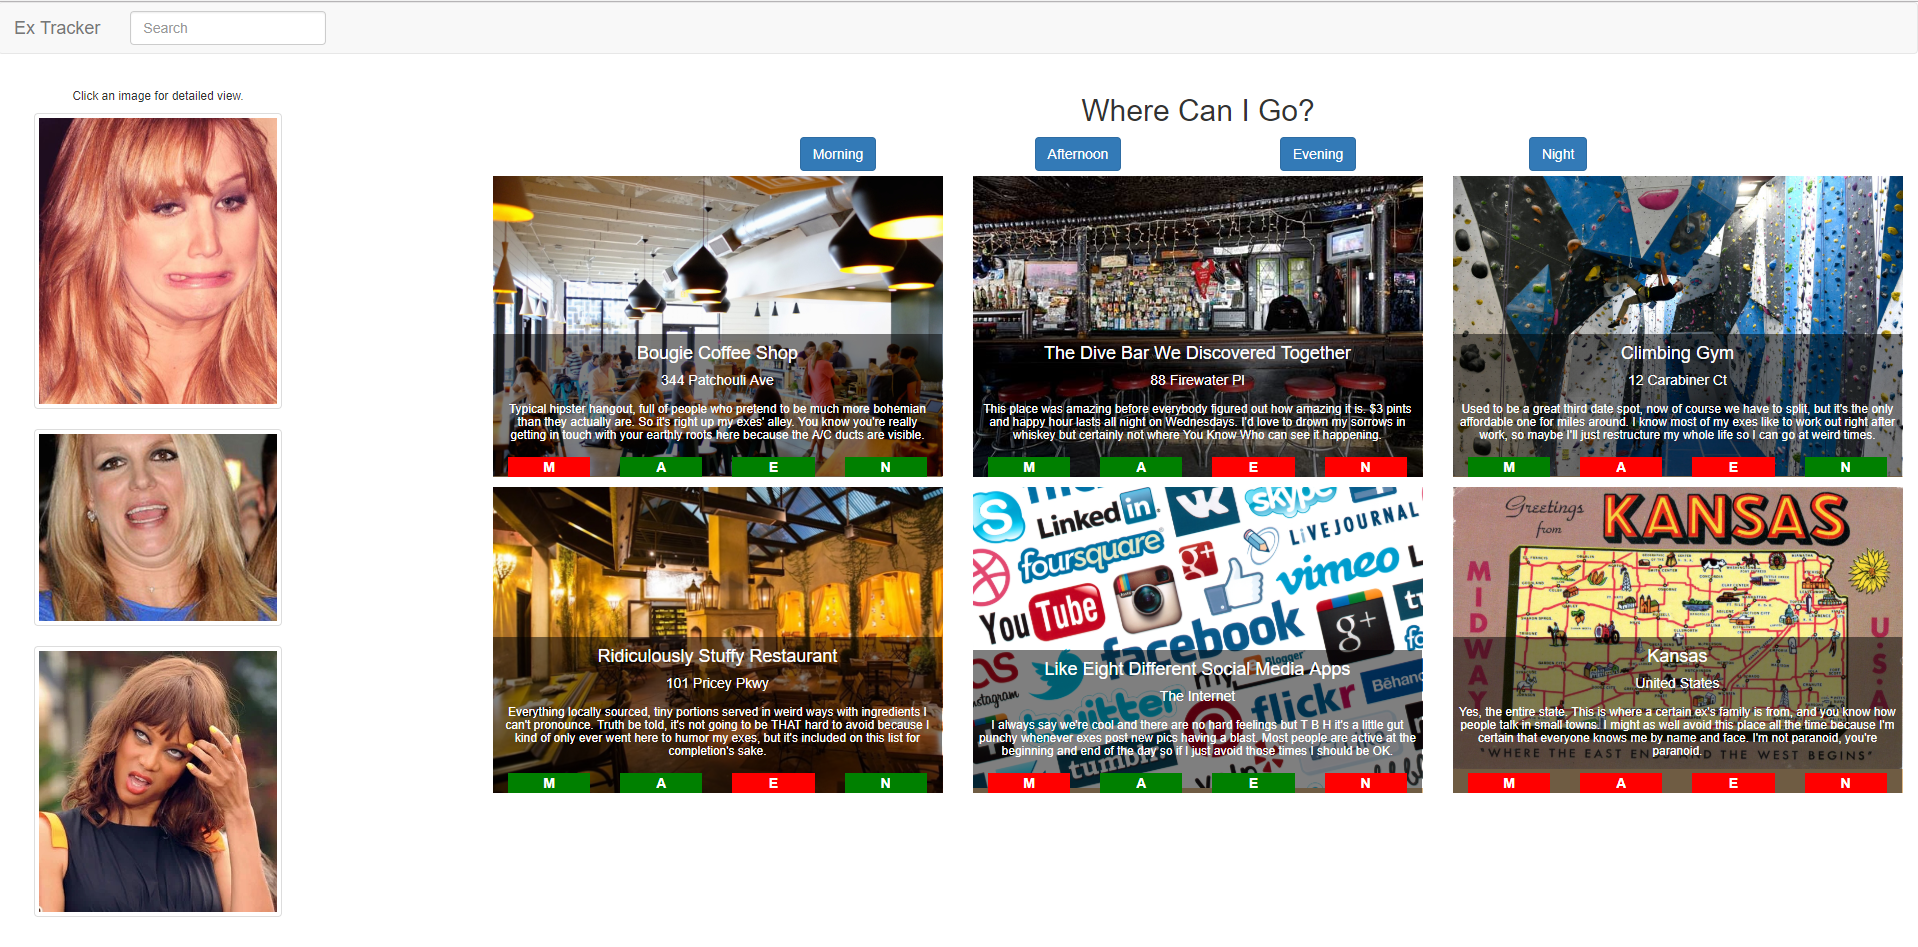
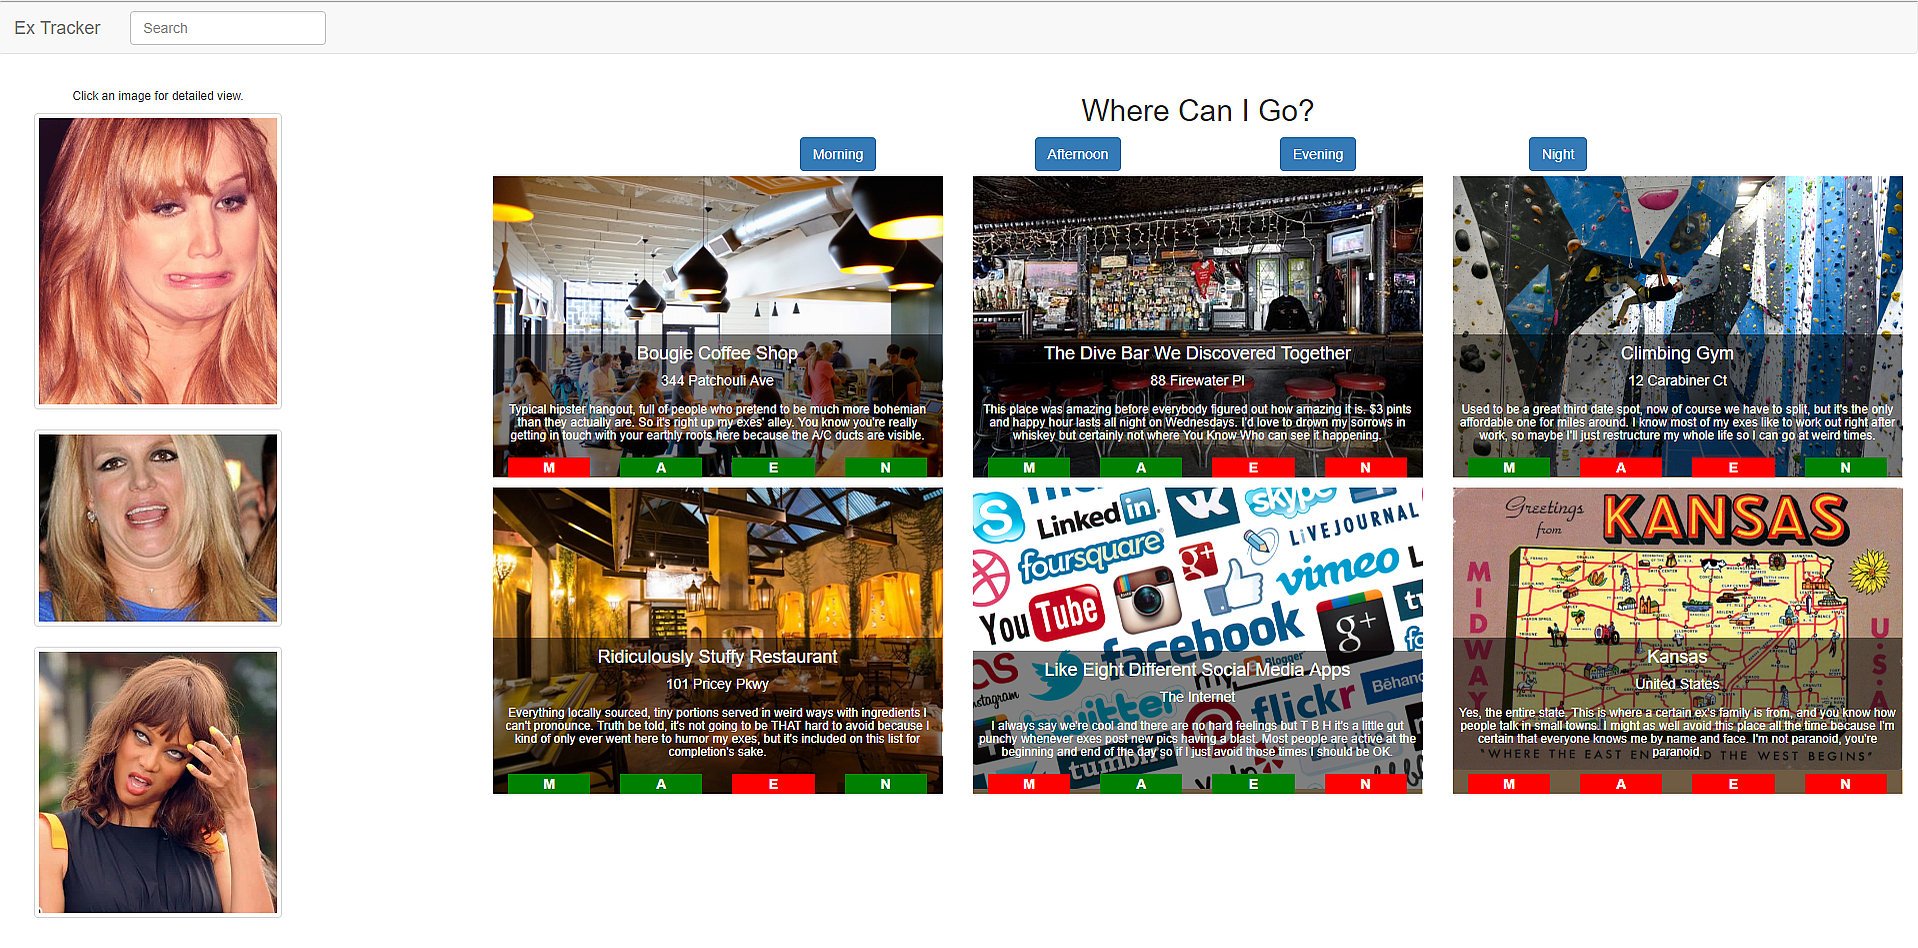
cleaned up projects, as well as contact card on small screens

diff --git a/index.html b/index.html
@@ -111,30 +111,19 @@
                 </div>
                 <div class="card-stacked">
                   <div class="card-content black-text">
-                    <h2>this is me.</h2>
+                    <h2>it me.</h2>
                     <h6>what a charmer, right?</h6>
                     <p>i'm an aspiring developer attending a full stack web development class at <a href="http://www.nashvillesoftwareschool.com">nashville software school</a>.</p>
                     <p>i'm passionate about working with data and solving coding problems efficiently, cleverly, and readably.</p>
                     <p>i live for the lightbulb moments.</p>
-                    <p></p> 
                   </div>
                   <div class="card-action">
-                      <div class="col s3">
-                        <a href="http://www.facebook.com/john.achor">
-                          <img class="socialmedia" src="/images/contact/facebook.png" alt="Facebook logo">
-                        </a>
-                      </div>
-                      <div class="col s3">
-                        <a href="http://twitter.com/DrossSA">
-                          <img class="socialmedia" src="/images/contact/twitter.png" alt="Twitter logo">
-                        </a>
-                      </div>
-                      <div class="col s3">
+                      <div class="col s6">
                         <a href="http://www.github.com/johnachor">
                           <img class="socialmedia" src="/images/contact/github.png" alt="Github logo">
                         </a>
                       </div>
-                      <div class="col s3">
+                      <div class="col s6">
                         <a href="mailto:john@john-achor.com">
                           <img class="socialmedia" src="/images/contact/email.png" alt="Email">
                         </a>

diff --git a/sass/main.scss b/sass/main.scss
@@ -19,12 +19,12 @@ body {
 }
 
 .universe {
-  height: calc(100% - 110px);
+  height: calc(100% - 140px);
 }
 
 .foot {
   width: 100%;
-  margin: 0;
+  margin: 25px 0 0 0;
   color: greenyellow;
   a {
     color: white;
@@ -78,7 +78,7 @@ nav.nav-center ul {
   border-radius: 10px;
   overflow: hidden;
   color: greenyellow;
-  background-color: rgba(0,0,0,0.5);
+  background-color: rgba(0,0,0,0.7);
 
   .card-action {
     text-transform: lowercase;
@@ -90,27 +90,34 @@ nav.nav-center ul {
   color: greenyellow;
 }
 
-.flex {
-  display: flex;
-  flex-wrap: wrap;
-}
-
 .socialmedia {
   max-height: 50px;
+  max-width: 100%;
+  margin: 0 auto;
 }
 
 .contact-card {
   border-radius: 10px;
   overflow: hidden;
+
+  .card-content {
+    padding: 0;
+
+    h2 {
+      margin: 10px 0;
+    }
+  }
 }
 
 .card-stacked {
   .card-action {
     text-align: center;
+    padding: 5px 0;
   }
 
   .card-content p {
     margin: 5px 0;
+    line-height: 1.2;
   }
 }
 
@@ -125,4 +132,19 @@ nav.nav-center ul {
 
 #techs .col {
   padding-bottom: 3em;
+}
+
+.flickity-page-dots {
+
+  .dot {
+    width: 12px;
+    height: 12px;
+    opacity: 1;
+    background: transparent;
+    border: 2px solid white;
+  }
+
+  .is-selected {
+    background: white;
+  }
 }

diff --git a/javascripts/stringbuilder.js b/javascripts/stringbuilder.js
@@ -14,7 +14,7 @@ const buildBlogCard = (blogEntry) => {
 
 const buildProjectCard = (project) => {
   return `
-  <div class="col s12 m6 l4">
+  <div class="col s12 m8 offset-m2 l6">
     <div class="card project-card sticky-action">
       <div class="card-image waves-effect waves-block waves-light">
         <img class="activator" src="${project.image}">
@@ -24,8 +24,7 @@ const buildProjectCard = (project) => {
           <i class="material-icons right">more_vert</i>
         </span>
         <div class="card-action">
-          <p><a href="${project.repo}">check it out on github</a></p>
-          ${project.deployed ? '<p><a href="' + project.deployed + '">see the deployed site</a></p>' : ''}
+          <p><a href="${project.repo}">see repo</a> ${project.deployed ? '<a href="' + project.deployed + '">see hosted</a></p>' : ''}
         </div>
       </div>
       <div class="card-reveal">

diff --git a/javascripts/main.js b/javascripts/main.js
@@ -2,7 +2,6 @@ const firebaseApi = require('./firebaseApi');
 
 $('#main-carousel').flickity({
   setGallerySize: false,
-  pageDots: false,
   initialIndex: 2,
   prevNextButtons: false,
   dragThreshold: 100,
